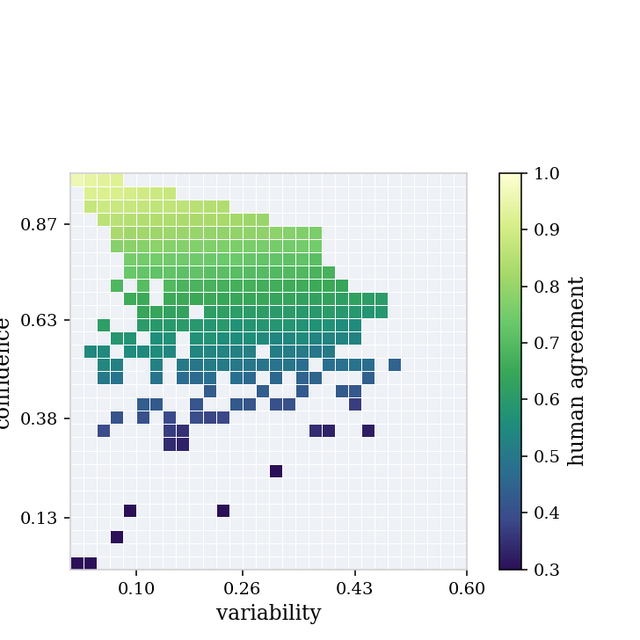
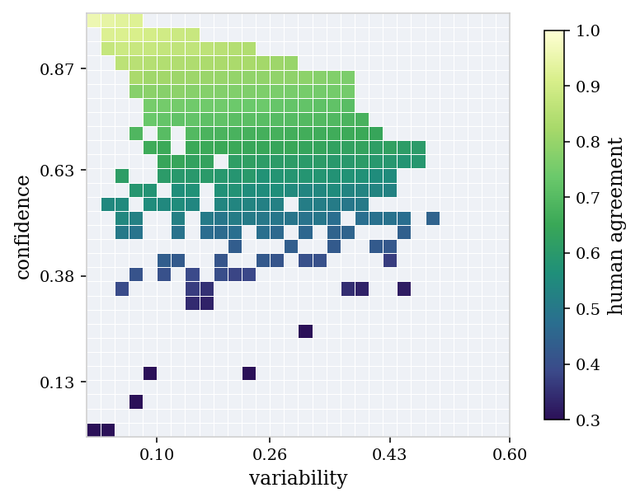
figure format edits

diff --git a/ml_cartography/analysis/paper_figures.py b/ml_cartography/analysis/paper_figures.py
@@ -402,12 +402,7 @@ def plot_fig5_agreement_heatmap(rows: List[Dict], output_path: Path) -> None:
     cmap = LinearSegmentedColormap.from_list("paper_agreement", AGREEMENT_CMAP_COLORS)
     cmap.set_bad(AGREEMENT_HEATMAP_BG)
 
-    fig = plt.figure(figsize=(5.2, 5.2), facecolor="white")
-    plot_frac = 0.62
-    left = 0.11
-    bottom = 0.11
-    ax = fig.add_axes([left, bottom, plot_frac, plot_frac])
-    cax = fig.add_axes([left + plot_frac + 0.05, bottom, 0.035, plot_frac])
+    fig, ax = plt.subplots(figsize=(5.4, 5.0), layout="constrained", facecolor="white")
     ax.set_facecolor(AGREEMENT_HEATMAP_BG)
 
     mesh = ax.pcolormesh(
@@ -429,8 +424,9 @@ def plot_fig5_agreement_heatmap(rows: List[Dict], output_path: Path) -> None:
     ax.set_xticks([0.10, 0.26, 0.43, 0.60])
     ax.set_yticks([0.13, 0.38, 0.63, 0.87])
     ax.set_aspect("auto")
+    ax.set_box_aspect(1)
 
-    cbar = fig.colorbar(mesh, cax=cax)
+    cbar = fig.colorbar(mesh, ax=ax, fraction=0.046, pad=0.04)
     cbar.set_label("human agreement")
     cbar.set_ticks(np.arange(0.3, 1.01, 0.1))
 
@@ -439,7 +435,7 @@ def plot_fig5_agreement_heatmap(rows: List[Dict], output_path: Path) -> None:
         spine.set_color("#cccccc")
 
     output_path.parent.mkdir(parents=True, exist_ok=True)
-    fig.savefig(output_path, dpi=140, facecolor="white", pad_inches=0.05)
+    fig.savefig(output_path, dpi=140, facecolor="white", bbox_inches="tight", pad_inches=0.12)
     plt.close(fig)
 
 

diff --git a/scripts/collect_paper_outputs.py b/scripts/collect_paper_outputs.py
@@ -47,17 +47,11 @@ def _copy(src: Path | None, dest_name: str, manifest: dict, note: str = "") -> N
 
 
 def _shrink_png(path: Path, max_width: int = 640) -> None:
-    """Keep paper_outputs web-friendly; Fig 5 is cropped to a square."""
+    """Keep paper_outputs web-friendly (resize only, no center-crop)."""
     from PIL import Image
 
     img = Image.open(path).convert("RGB")
     w, h = img.size
-    if "Figure_05" in path.name:
-        side = min(w, h)
-        left = (w - side) // 2
-        top = (h - side) // 2
-        img = img.crop((left, top, left + side, top + side))
-        w = h = side
     if w > max_width:
         nh = max(1, int(h * max_width / w))
         img = img.resize((max_width, nh), Image.Resampling.LANCZOS)
